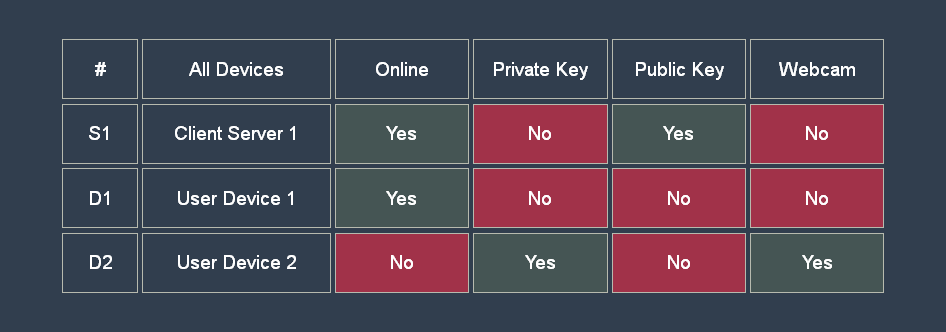
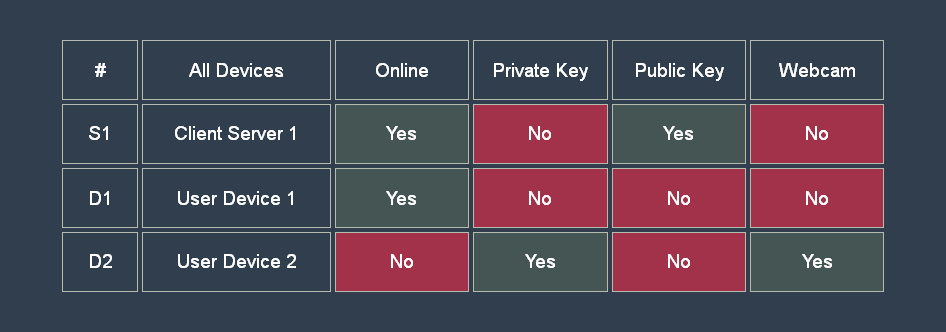
Archives

diff --git a/docs/table.html b/docs/table.html
@@ -10,7 +10,7 @@
 	<style>
 		*{border:0;margin:0;padding:0;outline:0;font-size:16px;line-height:1.2;list-style:none;text-decoration:none;box-sizing:border-box;font-family:Arial,Helvetica,sans-serif}
 		body{color:#fff;background-color:#313e4e;font-family:Arial,Helvetica,sans-serif}
-		span{height:3.12em;width:100%;color:#fff;padding:.9em 0;font-size:1.2rem;max-width:9.8615em;margin-bottom:.24em;display:inline-block;text-decoration:none;background-color:#313e4e;border:1px solid #b7baae}
+		span{height:3.12em;width:100%;color:#fff;padding:.9em 0;font-size:1.2rem;max-width:9.8615em;margin-bottom:.21em;display:inline-block;text-decoration:none;background-color:#313e4e;border:1px solid #b7baae}
 		div.max{color:#fff;display:flex;height:100vh;align-items:center;flex-direction:column;justify-content:center;background-color:#313e4e}
 		div.one{width:100%;max-width:60em;margin-top:-1.8em}
 		div.two{margin-top:0;text-align:center}
